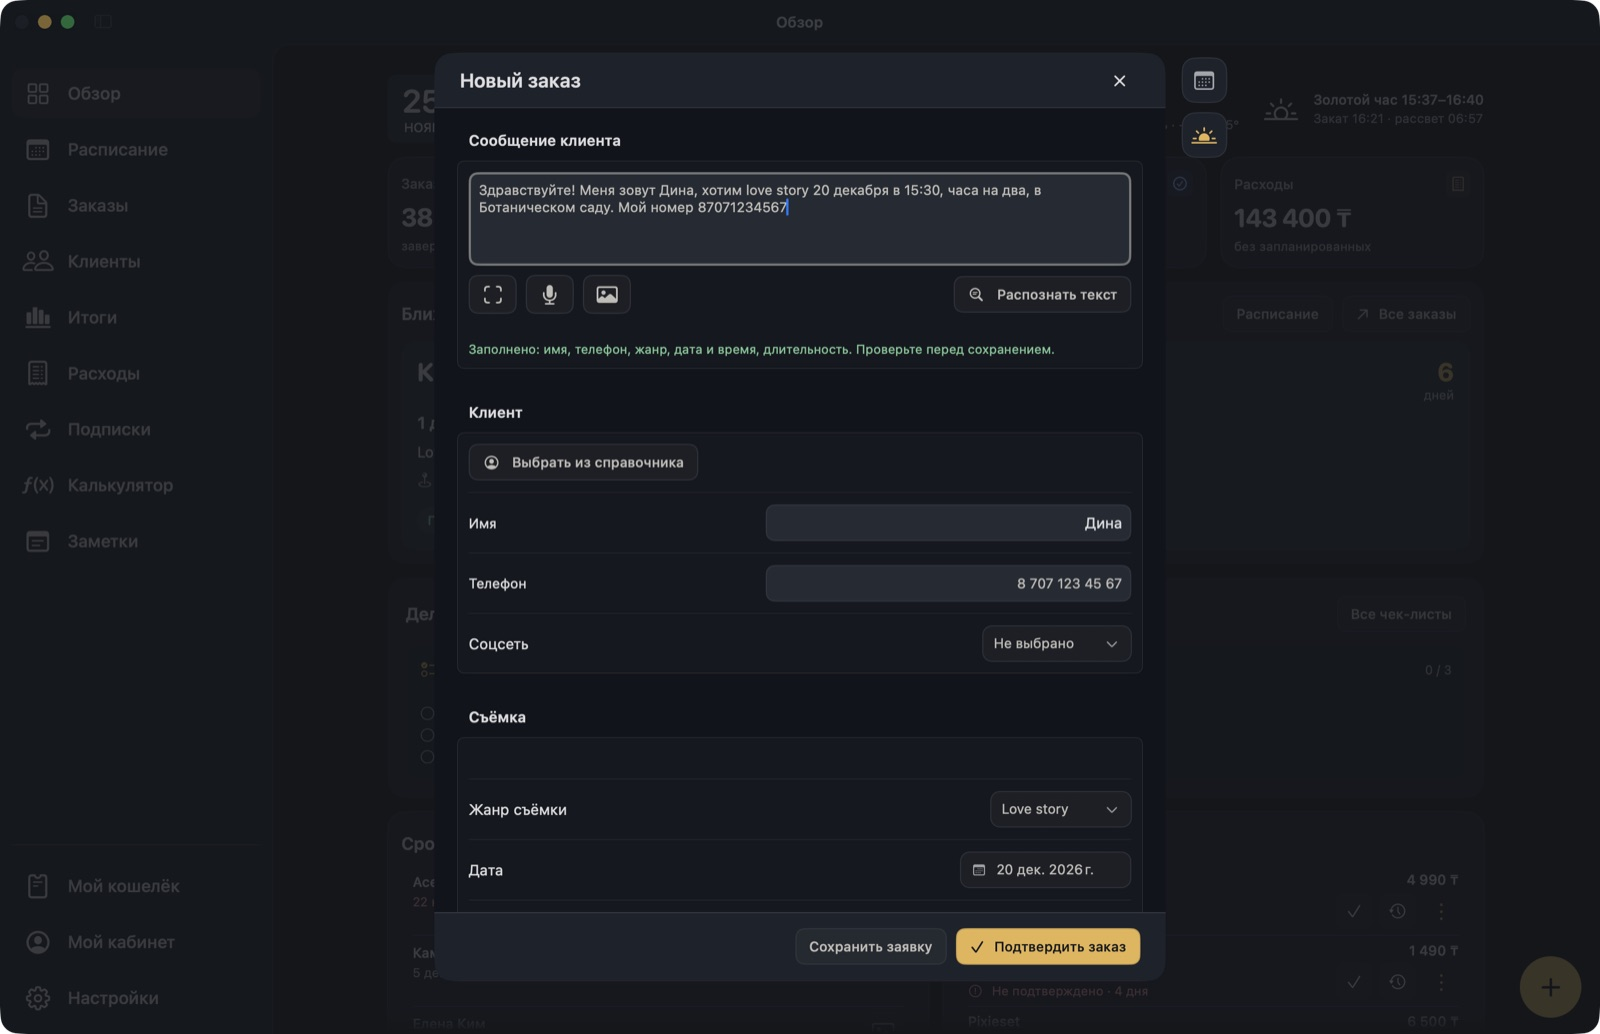
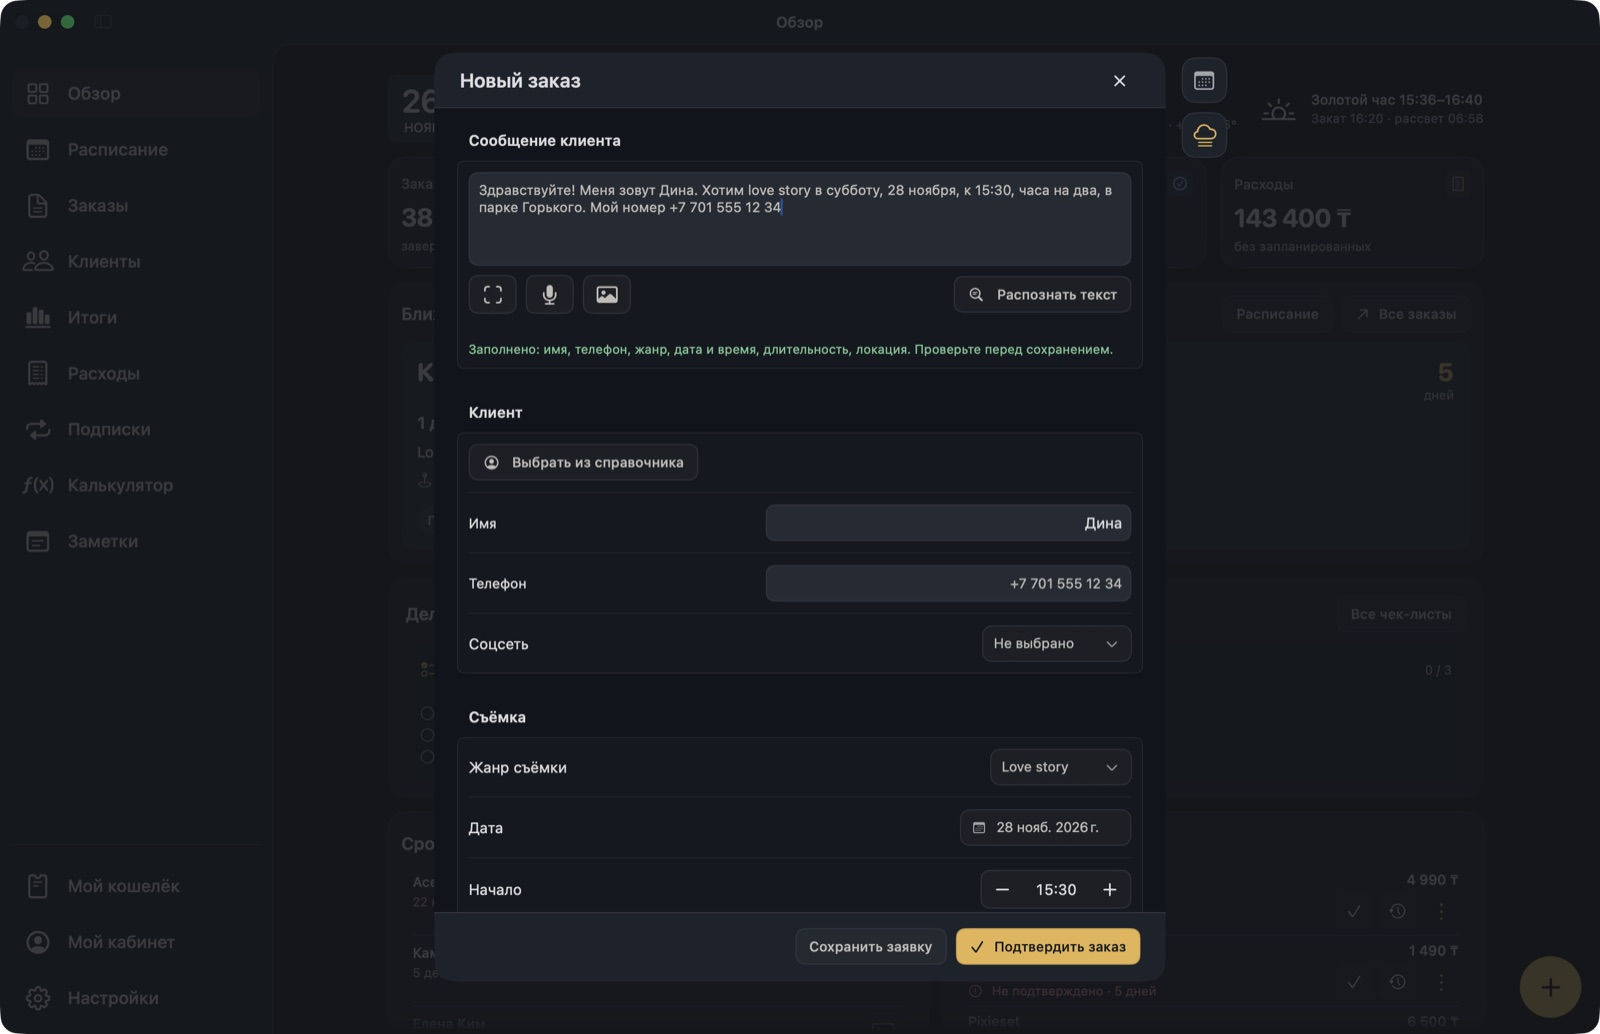
Fresh screenshots and a notes section with page, nested page and map screenshots

diff --git a/README.md b/README.md
@@ -29,6 +29,17 @@
   <img src="screenshots/03-itogi.jpg" alt="Итоги и цель на год" width="49%">
 </p>
 
+## Заметки
+
+Всё, что нужно к съёмке, — на одной странице и связано между собой. Страница съёмки со ссылками на локации и референсы, страницы внутри страниц, теги, фото и видео. Карта показывает, как связаны страницы (и с какими заказами), а доска — место для мудборда и плана дня.
+
+![Страница съёмки: заказ, ссылки на локацию и референсы, вложенные страницы, фото](screenshots/05-stranitsa.jpg)
+
+<p>
+  <img src="screenshots/06-vlozhennye.jpg" alt="Вложенная страница «План дня» и дерево страниц" width="49%">
+  <img src="screenshots/07-karta.jpg" alt="Карта связей между страницами" width="49%">
+</p>
+
 ![Доска: мудборд и план съёмки](screenshots/04-doska.jpg)
 
 ## Установка
